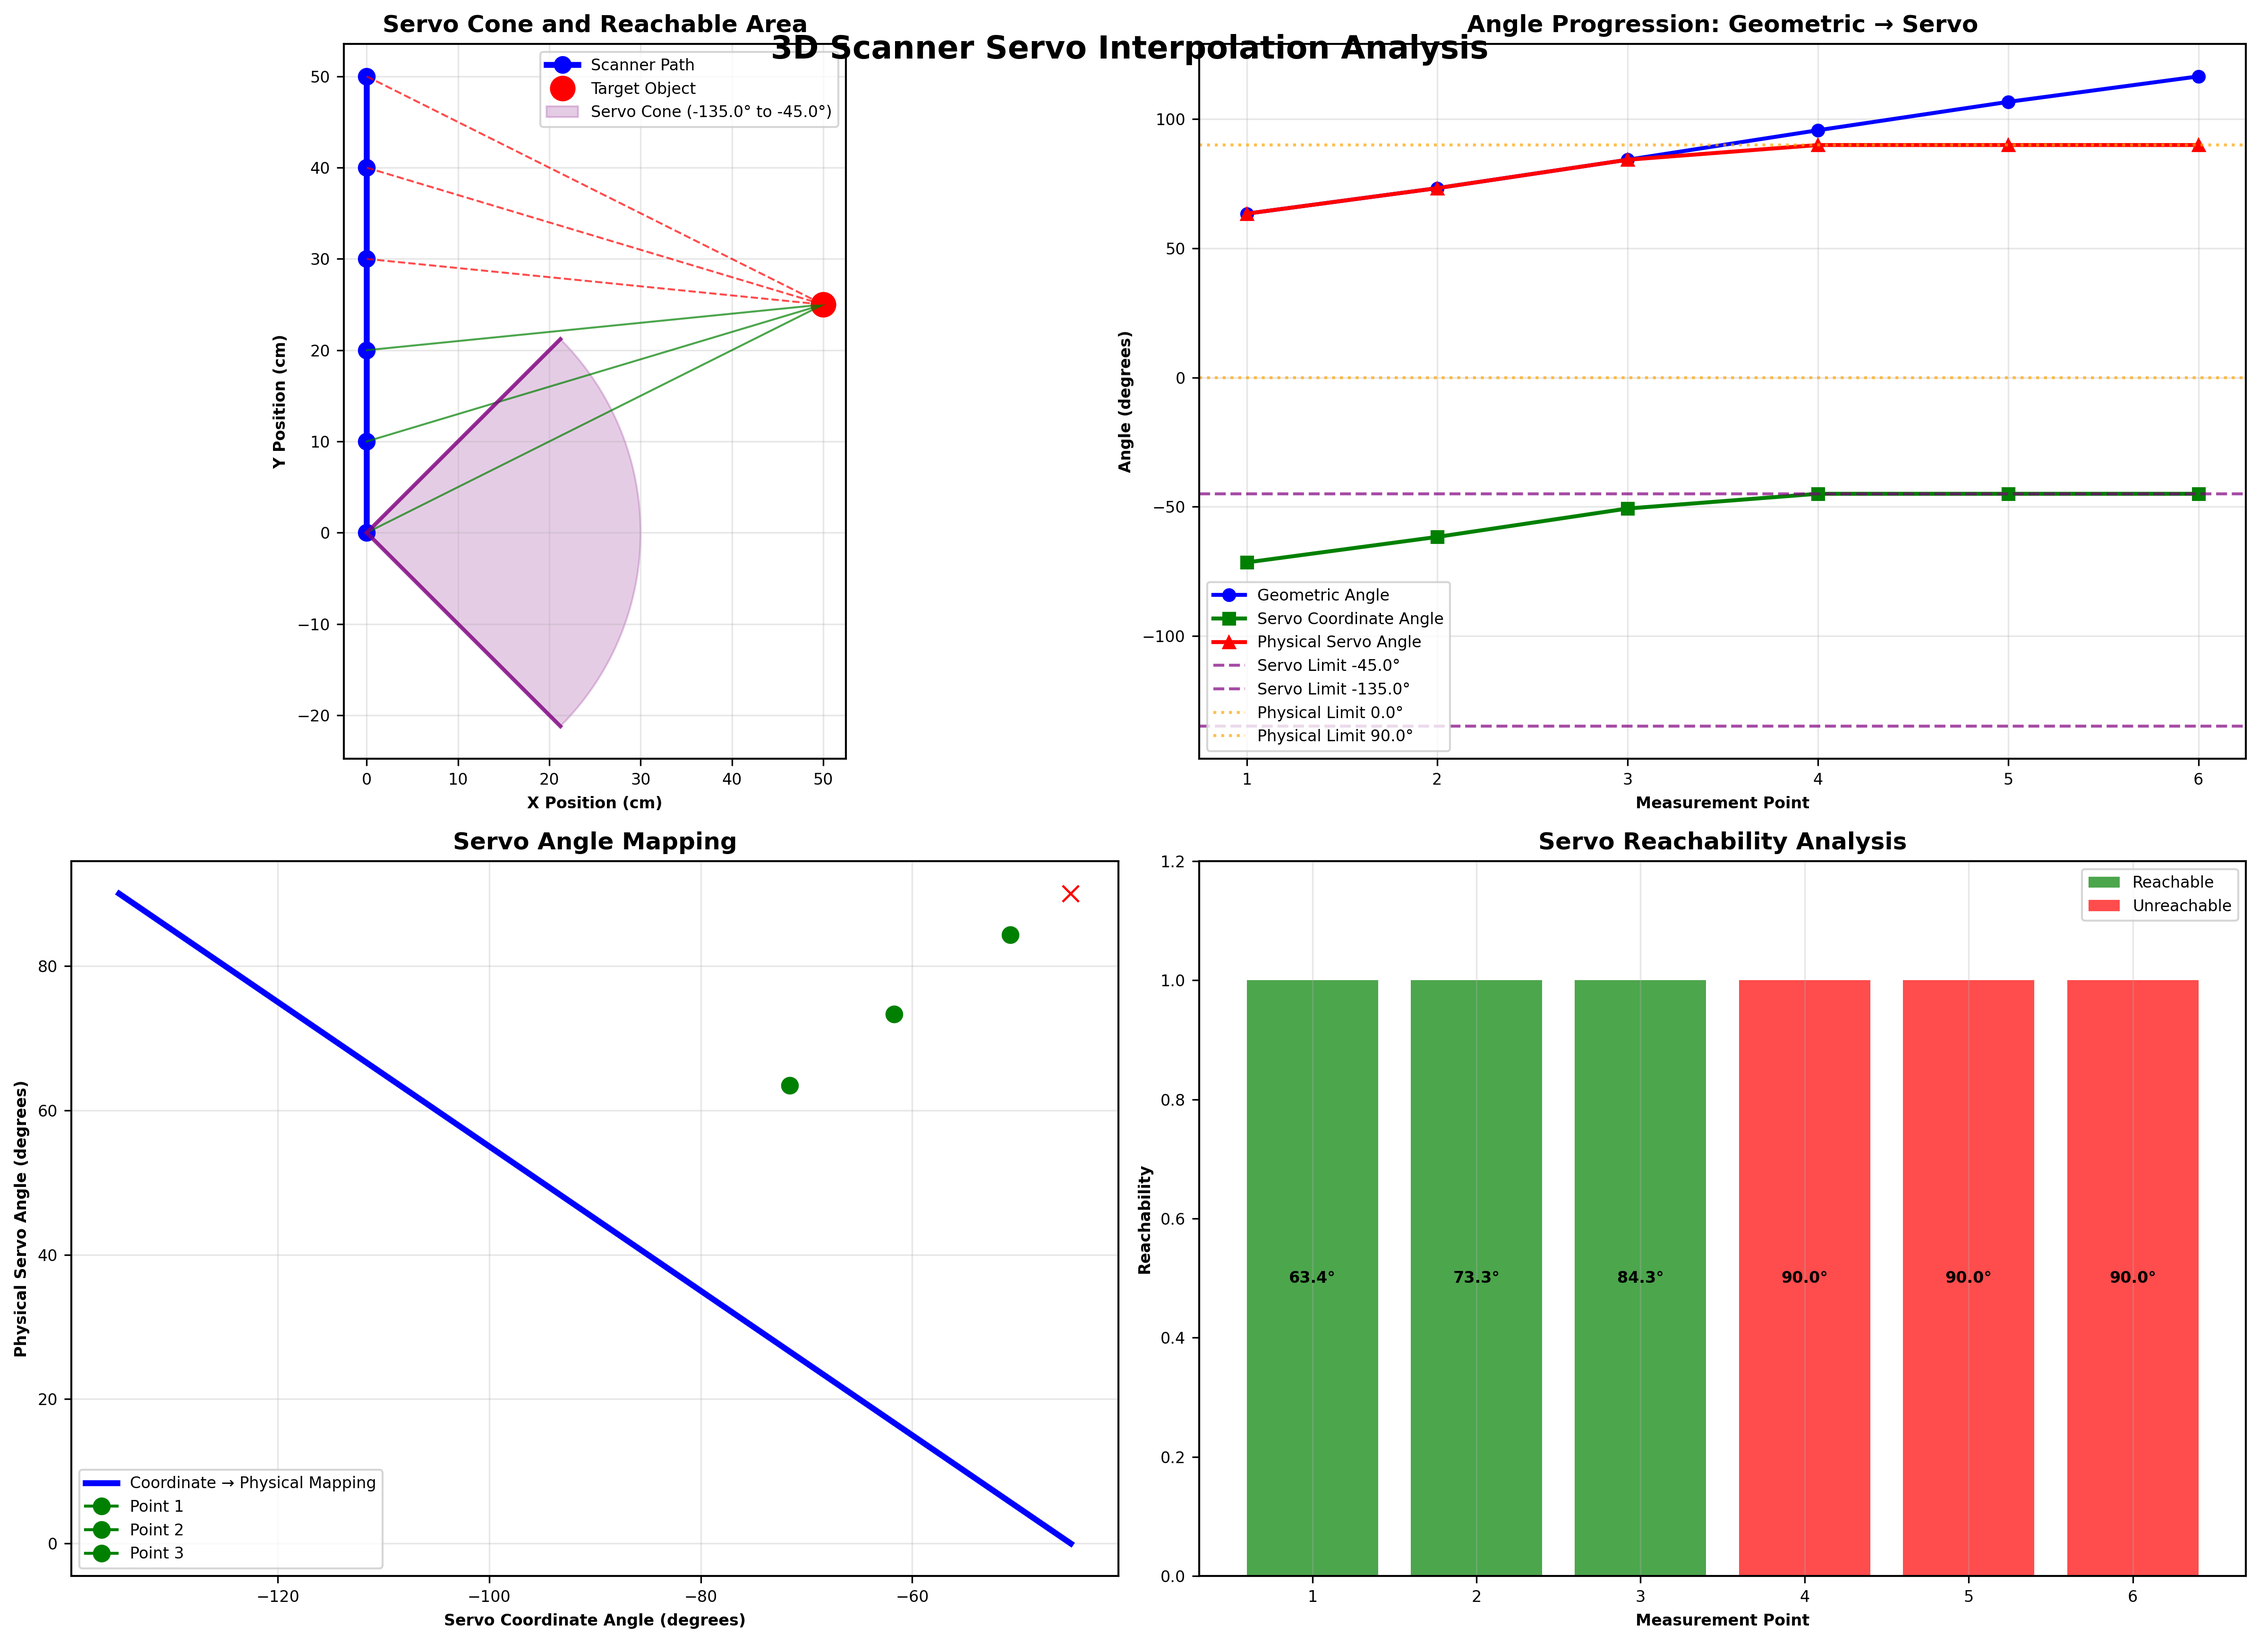
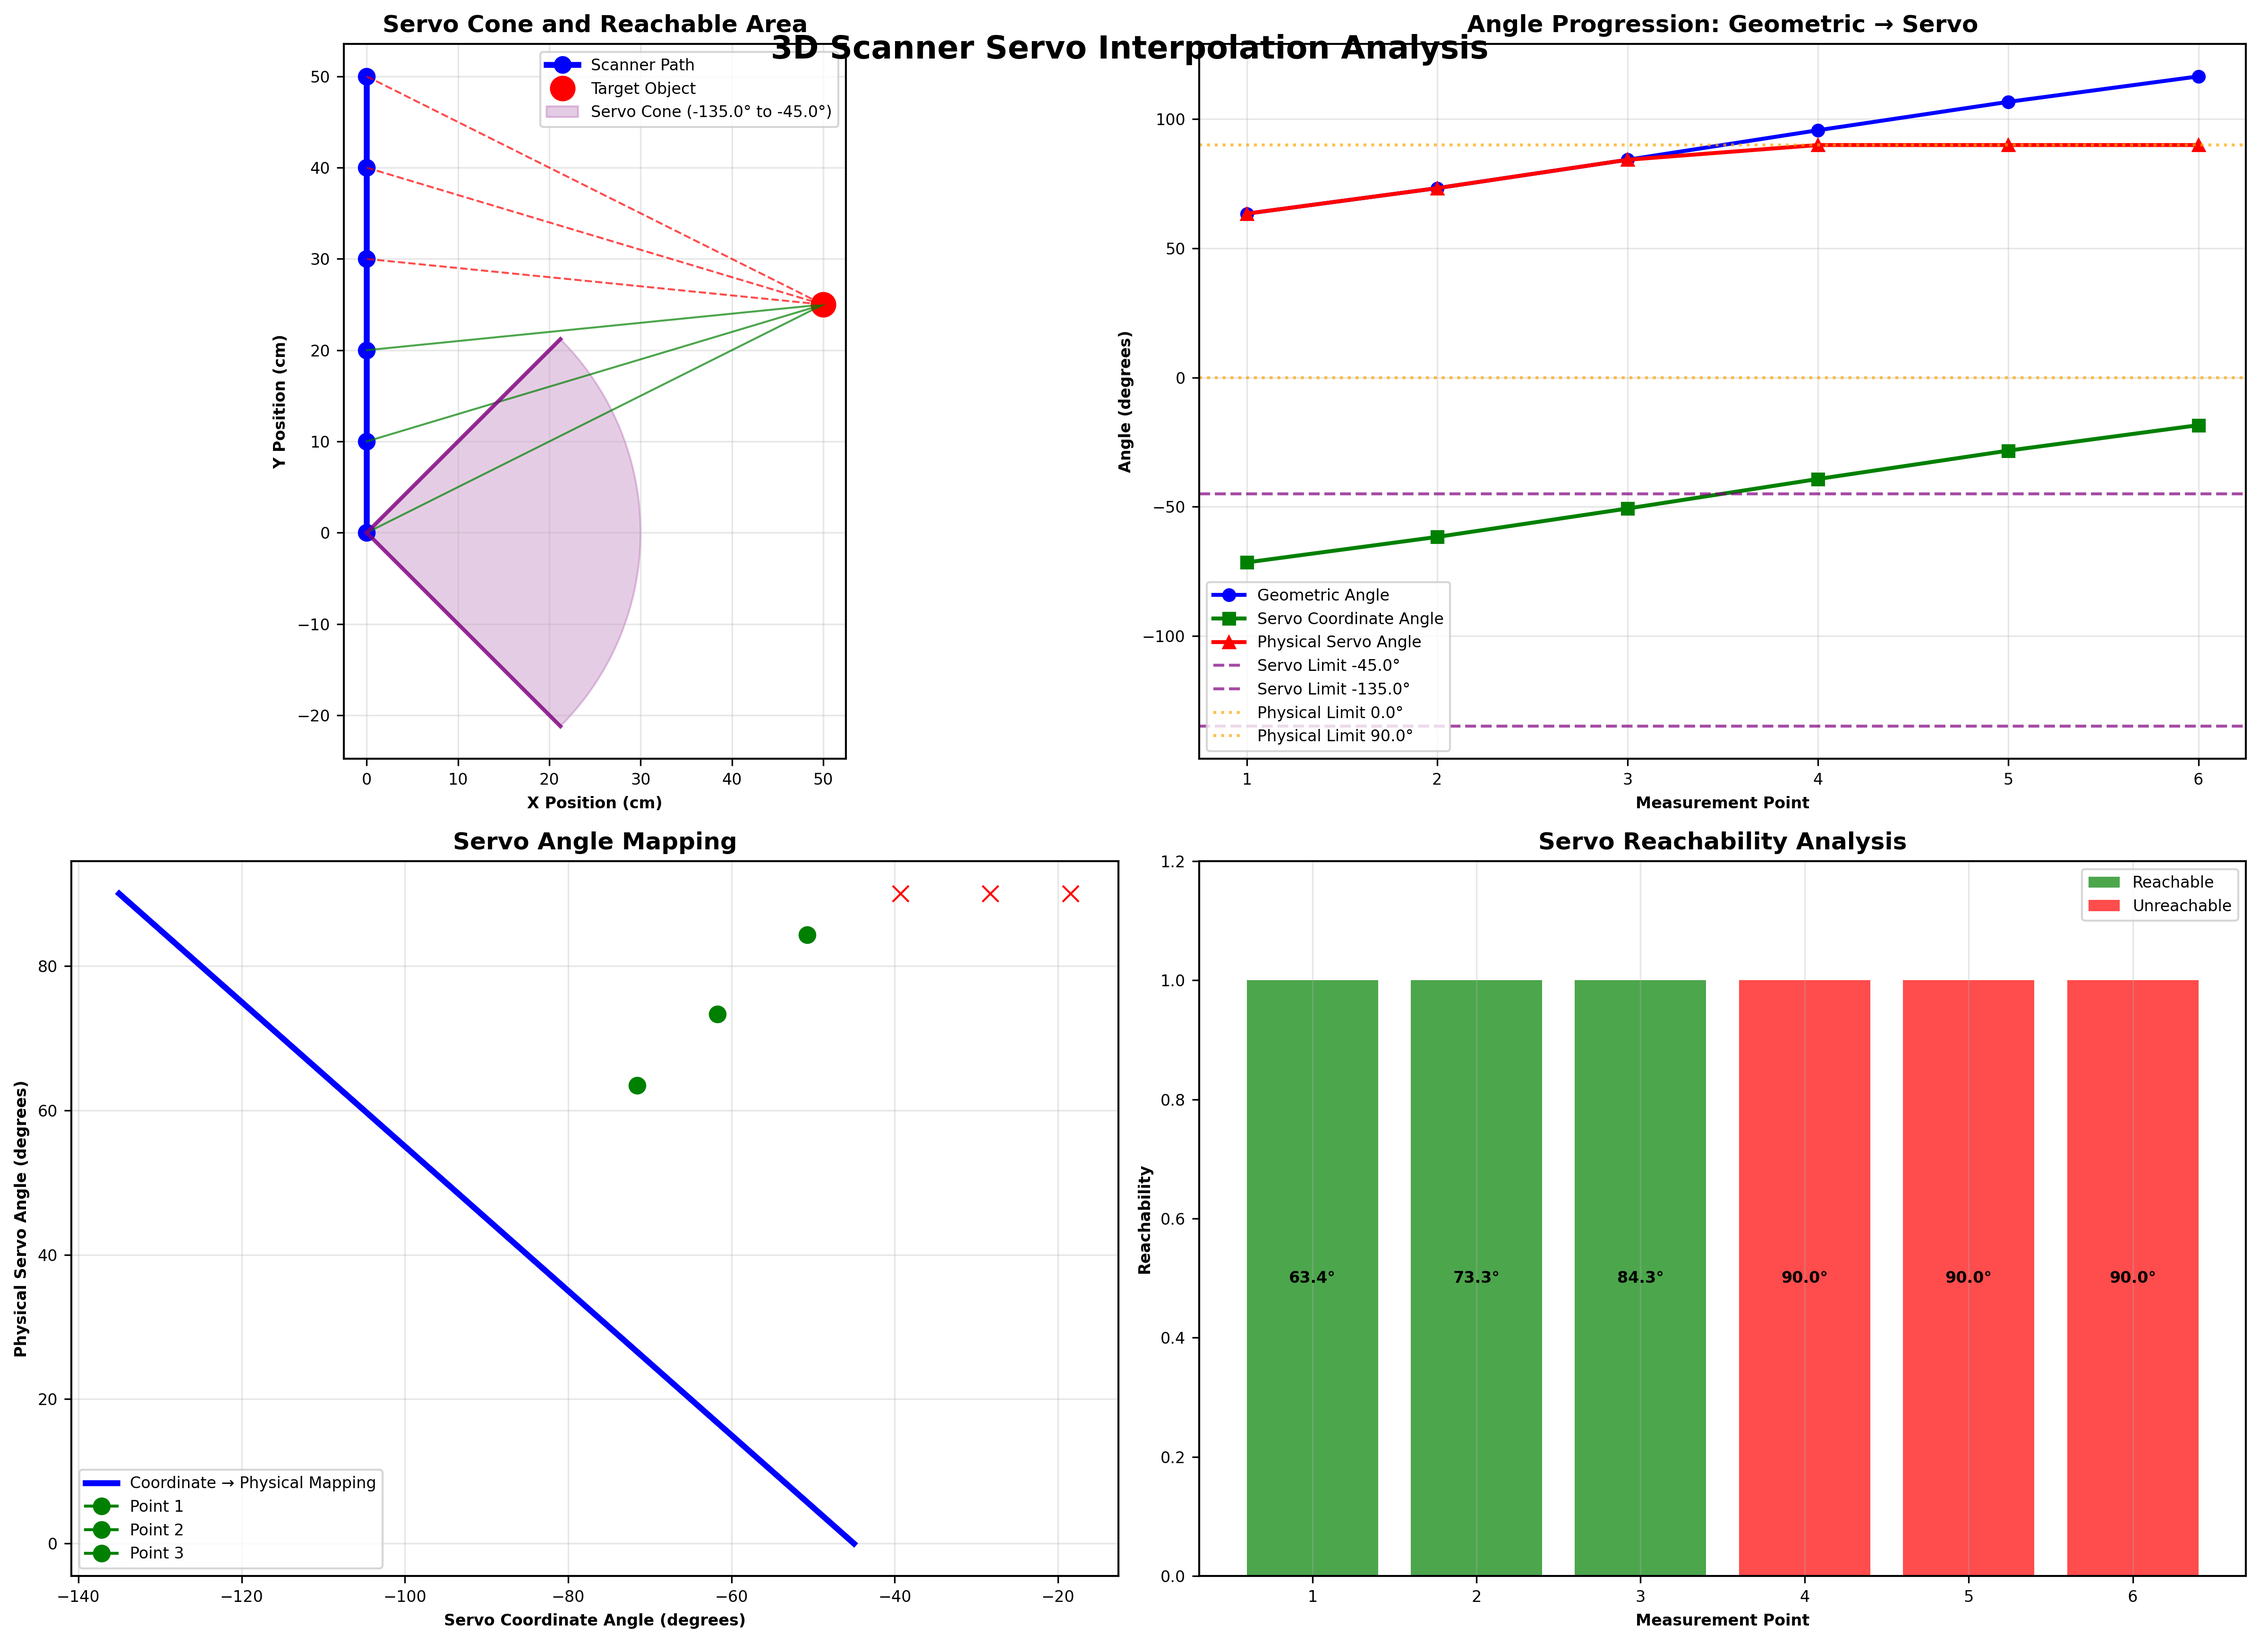
cone fehler, bereich wird aber schon korrekt angezeigt.... das klassische 1%

diff --git a/implementation/ControlScript/Calculator_Angle_Maschine/MathVisualisation/servo_interpolation.py b/implementation/ControlScript/Calculator_Angle_Maschine/MathVisualisation/servo_interpolation.py
@@ -22,7 +22,7 @@ from config import (
     SCANNER_MODULE_X, SCANNER_MODULE_Y,
     SCAN_DISTANCE, NUMBER_OF_MEASUREMENTS,
     SERVO_MIN_ANGLE, SERVO_MAX_ANGLE, SERVO_NEUTRAL_ANGLE,
-    COORD_MIN_ANGLE, COORD_MAX_ANGLE
+    COORD_MIN_ANGLE, COORD_MAX_ANGLE, COORD_NEUTRAL_ANGLE
 )
 from calculations import calculate_geometric_angles
 
@@ -41,8 +41,7 @@ def calculate_servo_interpolation():
     
     for angle_data in geometric_angles:
         geometric_angle = angle_data['angle']
-        
-        # Convert geometric angle to servo coordinate system
+          # Convert geometric angle to servo coordinate system
         # The servo is rotated 45° from the Y-axis, then 180° (total transformation)
         servo_coordinate_angle = geometric_angle + 45.0 + 180.0
         
@@ -52,28 +51,35 @@ def calculate_servo_interpolation():
         while servo_coordinate_angle < -180.0:
             servo_coordinate_angle += 360.0
         
+        # Store original coordinate angle for interpolation
+        original_servo_coordinate_angle = servo_coordinate_angle
+        
         # Check if angle is in reachable range (-135° to -45°)
         is_reachable = (servo_coordinate_angle >= COORD_MAX_ANGLE and 
                        servo_coordinate_angle <= COORD_MIN_ANGLE)
         
-        # Clamp to servo range in coordinate system
-        if servo_coordinate_angle < COORD_MAX_ANGLE:
-            servo_coordinate_angle = COORD_MAX_ANGLE
-        elif servo_coordinate_angle > COORD_MIN_ANGLE:
-            servo_coordinate_angle = COORD_MIN_ANGLE
+        # Always perform interpolation, regardless of reachability
+        # Map from coordinate system to servo range using original angle
+        # We need to map the full geometric range to the full servo range
         
+        # For interpolation, we use the original coordinate angle
         # Map from coordinate system (-135° to -45°) to servo range (0° to 90°)
         # Linear interpolation: -135° → 0°, -45° → 90°
         servo_range = COORD_MIN_ANGLE - COORD_MAX_ANGLE  # 90°
         physical_range = SERVO_MAX_ANGLE - SERVO_MIN_ANGLE  # 90°
         
-        # Normalize coordinate angle to 0-1 range
-        normalized_angle = (servo_coordinate_angle - COORD_MAX_ANGLE) / servo_range
+        # Normalize coordinate angle to 0-1 range (using original angle)
+        normalized_angle = (original_servo_coordinate_angle - COORD_MAX_ANGLE) / servo_range
         
         # Map to physical servo range
         servo_angle = SERVO_MIN_ANGLE + (normalized_angle * physical_range)
         
-        # Calculate cone boundaries for visualization
+        # Clamp servo angle to physical limits (0° to 90°) only for safety
+        if servo_angle < SERVO_MIN_ANGLE:
+            servo_angle = SERVO_MIN_ANGLE
+        elif servo_angle > SERVO_MAX_ANGLE:
+            servo_angle = SERVO_MAX_ANGLE
+          # Calculate cone boundaries for visualization
         cone_angle_1 = COORD_MAX_ANGLE  # -135° (upper limit)
         cone_angle_2 = COORD_MIN_ANGLE  # -45° (lower limit)
         
@@ -81,7 +87,7 @@ def calculate_servo_interpolation():
             'point': angle_data['point'],
             'y_pos': angle_data['y_pos'],
             'geometric_angle': geometric_angle,
-            'servo_coordinate_angle': servo_coordinate_angle,
+            'servo_coordinate_angle': original_servo_coordinate_angle,
             'servo_angle': servo_angle,
             'is_reachable': is_reachable,
             'cone_angle_1': cone_angle_1,
@@ -108,6 +114,7 @@ def print_servo_interpolation_explanation():
     print(f"   • At {SERVO_NEUTRAL_ANGLE}°: perpendicular to Y-axis, parallel to X-axis")
     print(f"   • Physical range: {SERVO_MIN_ANGLE}° to {SERVO_MAX_ANGLE}°")
     print(f"   • Coordinate system range: {COORD_MAX_ANGLE}° to {COORD_MIN_ANGLE}°")
+    print(f"   • Neutral position in coordinate system: {COORD_NEUTRAL_ANGLE}° (center of cone)")
     print("   • This creates a cone of possible servo positions")
     print()
     
@@ -143,9 +150,11 @@ def print_servo_interpolation_explanation():
         reach_symbol = "✅" if data['is_reachable'] else "❌"
         print(f"     {data['point']}   | {data['y_pos']:5.1f} | {data['geometric_angle']:5.1f} | {data['servo_coordinate_angle']:6.1f} | {data['servo_angle']:5.1f} | {reach_symbol}")
     
+        
     print()
     print("🎯 SERVO CONE ANALYSIS:")
     print(f"   • Servo cone spans from {COORD_MAX_ANGLE}° to {COORD_MIN_ANGLE}°")
+    print(f"   • Neutral position at {COORD_NEUTRAL_ANGLE}° (center of cone)")
     print(f"   • This is a {COORD_MIN_ANGLE - COORD_MAX_ANGLE}° cone centered around the servo axis")
     print("   • Points outside this cone cannot be reached by the servo")
     print()
@@ -180,32 +189,35 @@ def map_geometric_to_servo_angle(geometric_angle):
     """
     # Convert to servo coordinate system
     servo_coordinate_angle = geometric_angle + 45.0 + 180.0
-    
-    # Normalize angle to -180° to +180° range
+      # Normalize angle to -180° to +180° range
     while servo_coordinate_angle > 180.0:
         servo_coordinate_angle -= 360.0
     while servo_coordinate_angle < -180.0:
         servo_coordinate_angle += 360.0
     
+    # Store original coordinate angle for interpolation
+    original_servo_coordinate_angle = servo_coordinate_angle
+    
     # Check if angle is in reachable range (-135° to -45°)
     is_reachable = (servo_coordinate_angle >= COORD_MAX_ANGLE and 
                    servo_coordinate_angle <= COORD_MIN_ANGLE)
     
-    # Clamp to servo range
-    if servo_coordinate_angle < COORD_MAX_ANGLE:
-        servo_coordinate_angle = COORD_MAX_ANGLE
-    elif servo_coordinate_angle > COORD_MIN_ANGLE:
-        servo_coordinate_angle = COORD_MIN_ANGLE
-    
+    # Always perform interpolation using original angle
     # Map to physical servo range (-135° → 0°, -45° → 90°)
     servo_range = COORD_MIN_ANGLE - COORD_MAX_ANGLE  # 90°
     physical_range = SERVO_MAX_ANGLE - SERVO_MIN_ANGLE  # 90°
-    normalized_angle = (servo_coordinate_angle - COORD_MAX_ANGLE) / servo_range
+    normalized_angle = (original_servo_coordinate_angle - COORD_MAX_ANGLE) / servo_range
     servo_angle = SERVO_MIN_ANGLE + (normalized_angle * physical_range)
+    
+    # Clamp servo angle to physical limits (0° to 90°) only for safety
+    if servo_angle < SERVO_MIN_ANGLE:
+        servo_angle = SERVO_MIN_ANGLE
+    elif servo_angle > SERVO_MAX_ANGLE:
+        servo_angle = SERVO_MAX_ANGLE
     
     return {
         'geometric_angle': geometric_angle,
-        'servo_coordinate_angle': servo_coordinate_angle,
+        'servo_coordinate_angle': original_servo_coordinate_angle,
         'servo_angle': servo_angle,
         'is_reachable': is_reachable
     }

diff --git a/implementation/ControlScript/Calculator_Angle_Maschine/MathVisualisation/visualizations/servo_interpolation.py b/implementation/ControlScript/Calculator_Angle_Maschine/MathVisualisation/visualizations/servo_interpolation.py
@@ -23,7 +23,7 @@ from config import (
 )
 from servo_interpolation import (
     calculate_servo_interpolation,
-    SERVO_NEUTRAL_ANGLE, COORD_MIN_ANGLE, COORD_MAX_ANGLE,
+    SERVO_NEUTRAL_ANGLE, COORD_MIN_ANGLE, COORD_MAX_ANGLE, COORD_NEUTRAL_ANGLE,
     SERVO_MIN_ANGLE, SERVO_MAX_ANGLE
 )
 
@@ -232,19 +232,18 @@ def create_servo_cone_detail():
     cone_y = servo_y + cone_radius * np.sin(theta)
     cone_x = np.append([servo_x], cone_x)
     cone_y = np.append([servo_y], cone_y)
-    ax.fill(cone_x, cone_y, color='purple', alpha=0.3, label='Servo Reachable Cone')
-    
-    # Draw neutral position (45° from Y-axis)
-    neutral_rad = math.radians(45 + 90)  # 45° from Y-axis = 135° in math coordinates
+    ax.fill(cone_x, cone_y, color='purple', alpha=0.3, label='Servo Reachable Cone')    # Draw neutral position (center of servo cone at -90°)
+    neutral_rad = math.radians(COORD_NEUTRAL_ANGLE + 90)  # -90° in coordinate system = 0° in math coordinates
     neutral_x = servo_x + cone_radius * 0.7 * math.cos(neutral_rad)
     neutral_y = servo_y + cone_radius * 0.7 * math.sin(neutral_rad)
-    ax.plot([servo_x, neutral_x], [servo_y, neutral_y], 'orange', linewidth=3, linestyle='--', label='Neutral Position (45°)')
-      # Add angle annotations
+    ax.plot([servo_x, neutral_x], [servo_y, neutral_y], 'orange', linewidth=3, linestyle='--', label=f'Neutral Position ({COORD_NEUTRAL_ANGLE}°)')
+    
+    # Add angle annotations
     ax.annotate(f'{COORD_MAX_ANGLE}°', xy=(cone_x1, cone_y1), xytext=(cone_x1-1, cone_y1-0.5),
                 fontsize=12, fontweight='bold', color='purple')
     ax.annotate(f'{COORD_MIN_ANGLE}°', xy=(cone_x2, cone_y2), xytext=(cone_x2+0.5, cone_y2+0.5),
                 fontsize=12, fontweight='bold', color='purple')
-    ax.annotate('45°', xy=(neutral_x, neutral_y), xytext=(neutral_x+0.5, neutral_y-0.5),
+    ax.annotate(f'{COORD_NEUTRAL_ANGLE}°', xy=(neutral_x, neutral_y), xytext=(neutral_x+0.5, neutral_y-0.5),
                 fontsize=12, fontweight='bold', color='orange')
     
     # Add coordinate system labels

diff --git a/implementation/ControlScript/Calculator_Angle_Maschine/MathVisualisation/config.py b/implementation/ControlScript/Calculator_Angle_Maschine/MathVisualisation/config.py
@@ -46,13 +46,14 @@ NUMBER_OF_MEASUREMENTS = 6  # Number of measurement points
 # Servo interpolation parameters for 3D scanner
 SERVO_MIN_ANGLE = 0.0      # Minimum servo angle (degrees)
 SERVO_MAX_ANGLE = 90.0     # Maximum servo angle (degrees)
-SERVO_NEUTRAL_ANGLE = 45.0 # Servo neutral position (perpendicular to Y-axis)
+SERVO_NEUTRAL_ANGLE = 45.0 # Servo neutral position at 45° physical angle
 
 # Coordinate system mapping (servo rotated by 45° from Y-axis, then 180°)
 # When servo is at 0°: coordinate angle = 225° (or -135°) (upper limit)
 # When servo is at 90°: coordinate angle = 315° (or -45°) (lower limit)
 COORD_MAX_ANGLE = -135.0   # Upper limit in coordinate system (servo at 0°)
 COORD_MIN_ANGLE = -45.0    # Lower limit in coordinate system (servo at 90°)
+COORD_NEUTRAL_ANGLE = -90.0 # Neutral position in coordinate system (center of cone)
 
 # Servo mounting information
 SERVO_ROTATION_OFFSET = 45.0  # Servo rotation offset from Y-axis (degrees)
